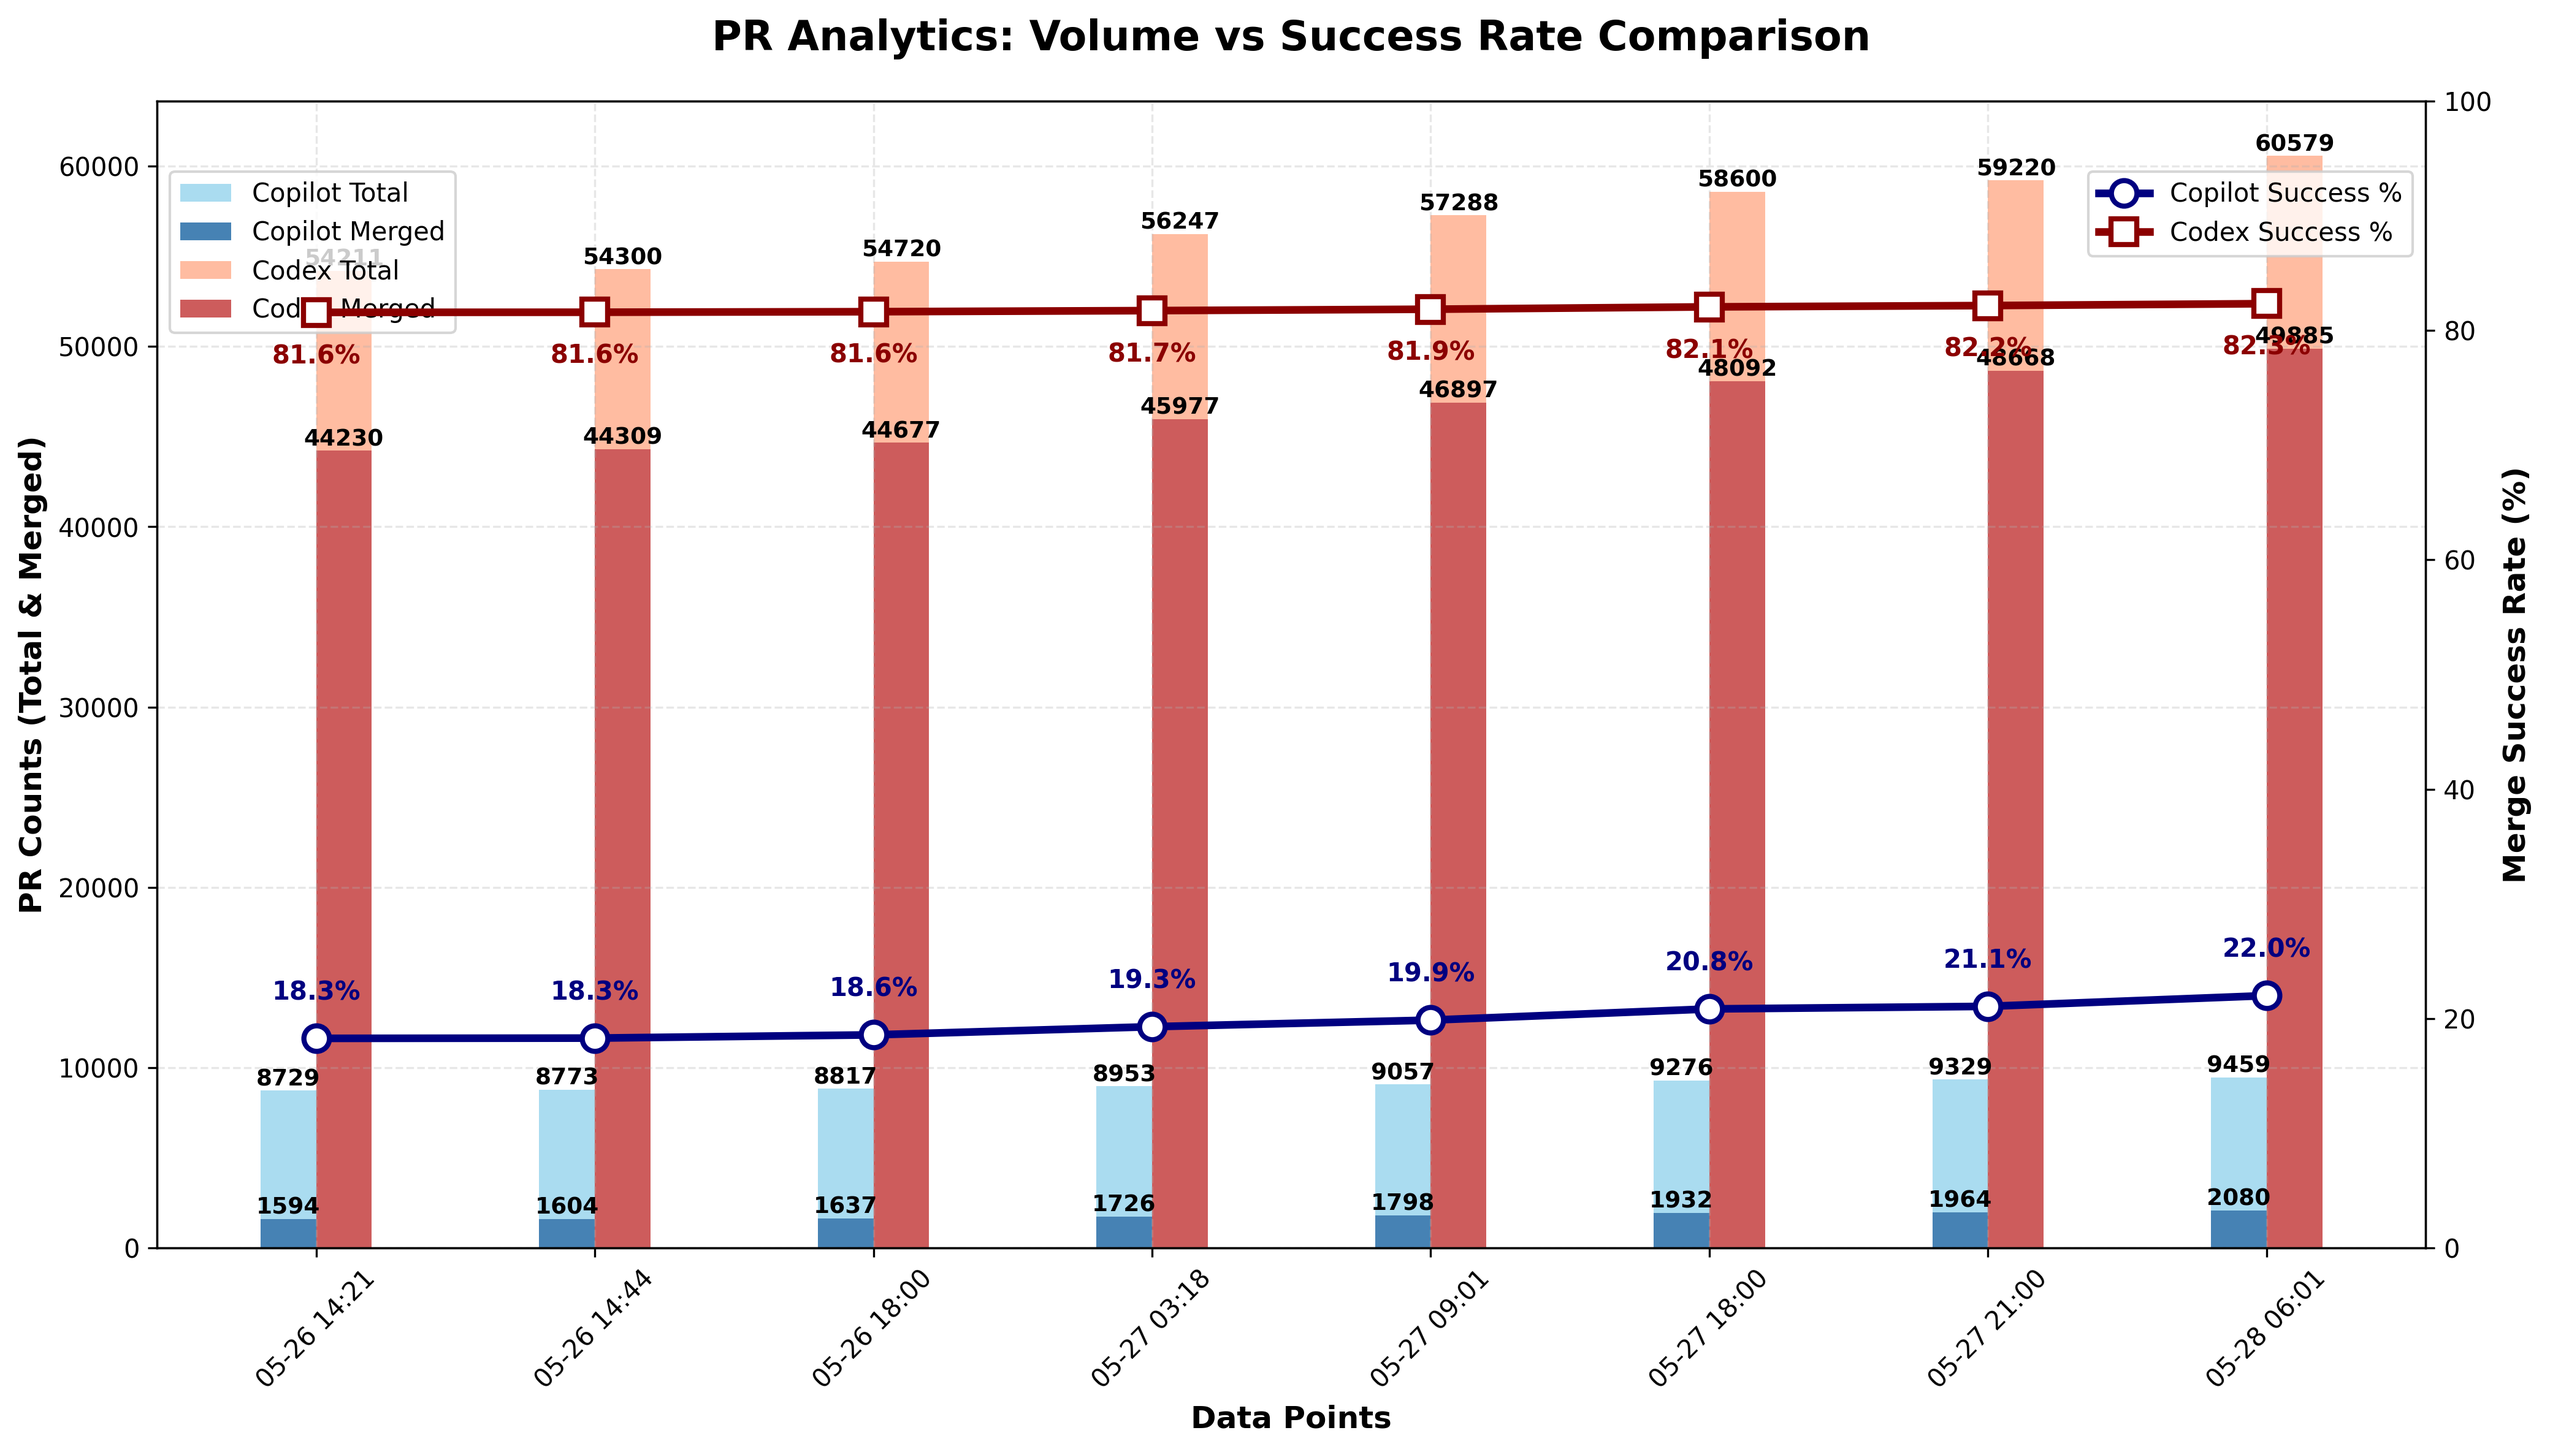
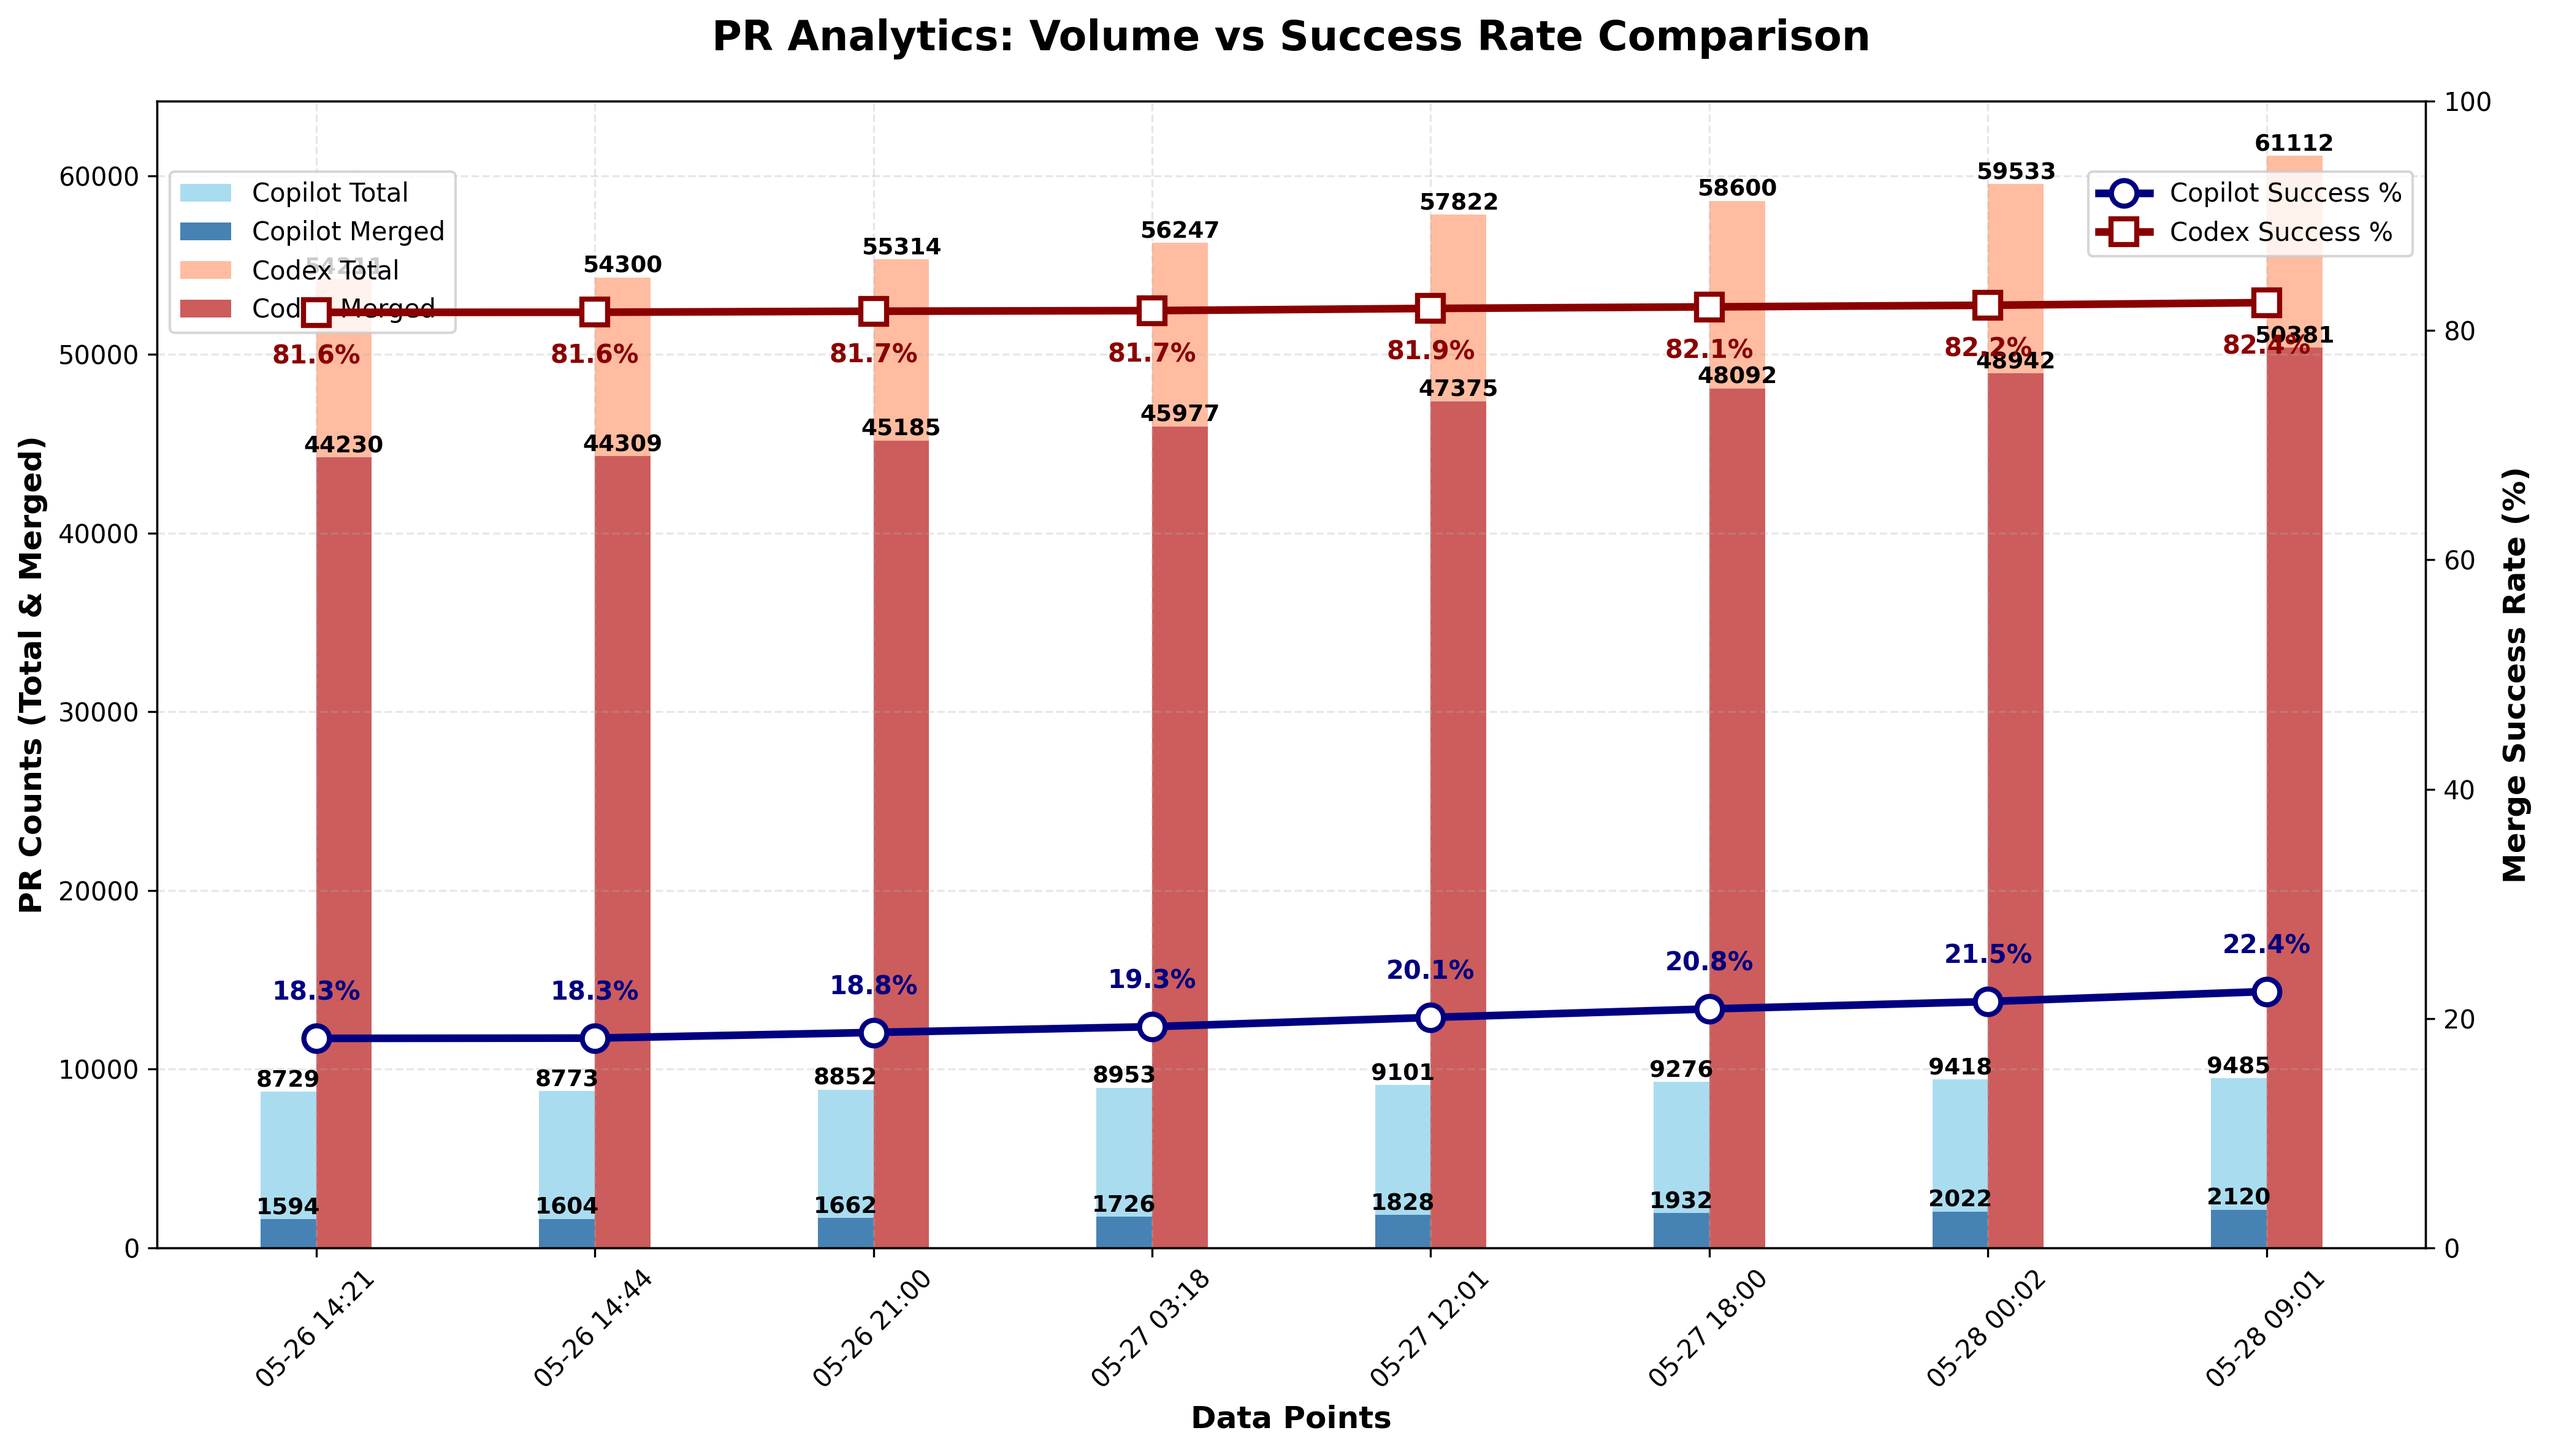
chore: update PR‑approval chart

diff --git a/docs/index.html b/docs/index.html
@@ -44,22 +44,22 @@
                 <tbody>
                     <tr>
                         <td>Copilot</td>
-                        <td>9,459</td>
-                        <td>2,080</td>
-                        <td>21.99%</td>
+                        <td>9,485</td>
+                        <td>2,120</td>
+                        <td>22.35%</td>
                     </tr>
                     <tr>
                         <td>Codex</td>
-                        <td>60,579</td>
-                        <td>49,885</td>
-                        <td>82.35%</td>
+                        <td>61,112</td>
+                        <td>50,381</td>
+                        <td>82.44%</td>
                     </tr>
                 </tbody>
             </table>
         </section>
 
         <footer>
-            <p>Last updated: <span id="last-updated">May 28, 2025 06:01 UTC</span></p>
+            <p>Last updated: <span id="last-updated">May 28, 2025 09:01 UTC</span></p>
             <p><a href="https://github.com/aavetis/ai-pr-watcher">View on GitHub</a></p>
         </footer>
     </div>

diff --git a/README.md b/README.md
@@ -19,5 +19,5 @@ Explore the GitHub search queries used:
 
 | Project | Total PRs | Merged PRs | Merge Rate |
 | ------- | --------- | ---------- | ---------- |
-| Copilot | 9,459 | 2,080 | 21.99% |
-| Codex   | 60,579 | 49,885 | 82.35% |
+| Copilot | 9,485 | 2,120 | 22.35% |
+| Codex   | 61,112 | 50,381 | 82.44% |
